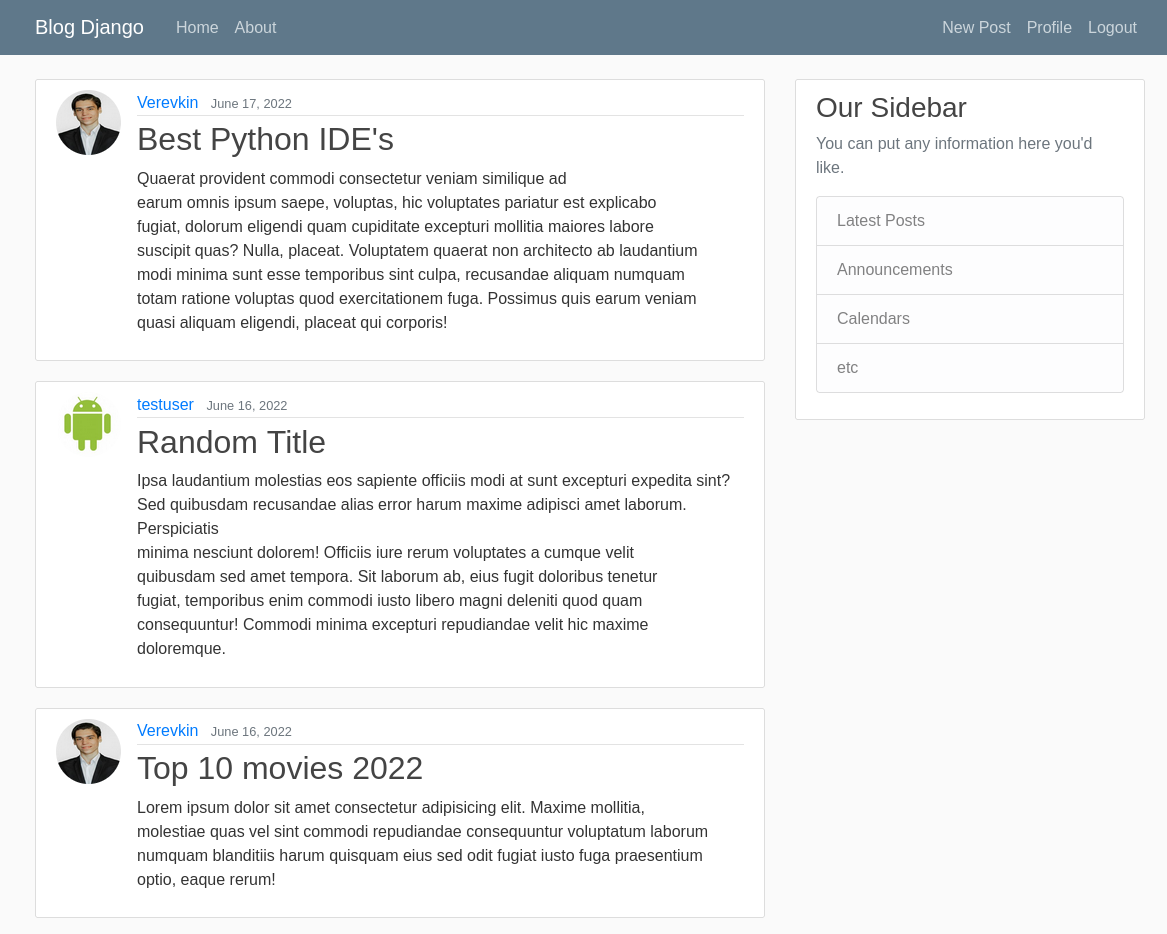
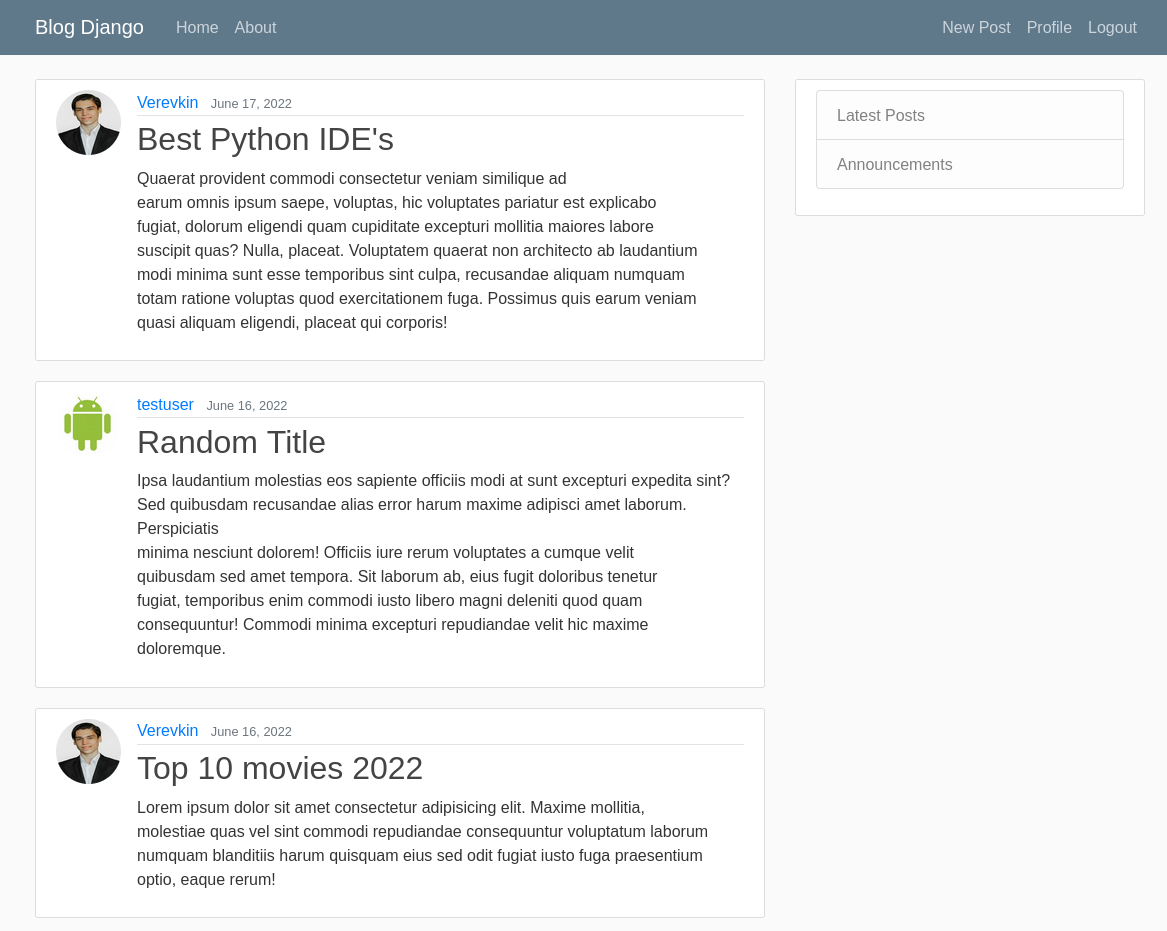
fix: update preview images

diff --git a/blog/templates/blog/base.html b/blog/templates/blog/base.html
@@ -58,13 +58,9 @@
         </div>
         <div class="col-md-4">
           <div class="content-section">
-            <h3>Our Sidebar</h3>
-            <p class='text-muted'>You can put any information here you'd like.
               <ul class="list-group">
                 <li class="list-group-item list-group-item-light">Latest Posts</li>
                 <li class="list-group-item list-group-item-light">Announcements</li>
-                <li class="list-group-item list-group-item-light">Calendars</li>
-                <li class="list-group-item list-group-item-light">etc</li>
               </ul>
             </p>
           </div>
